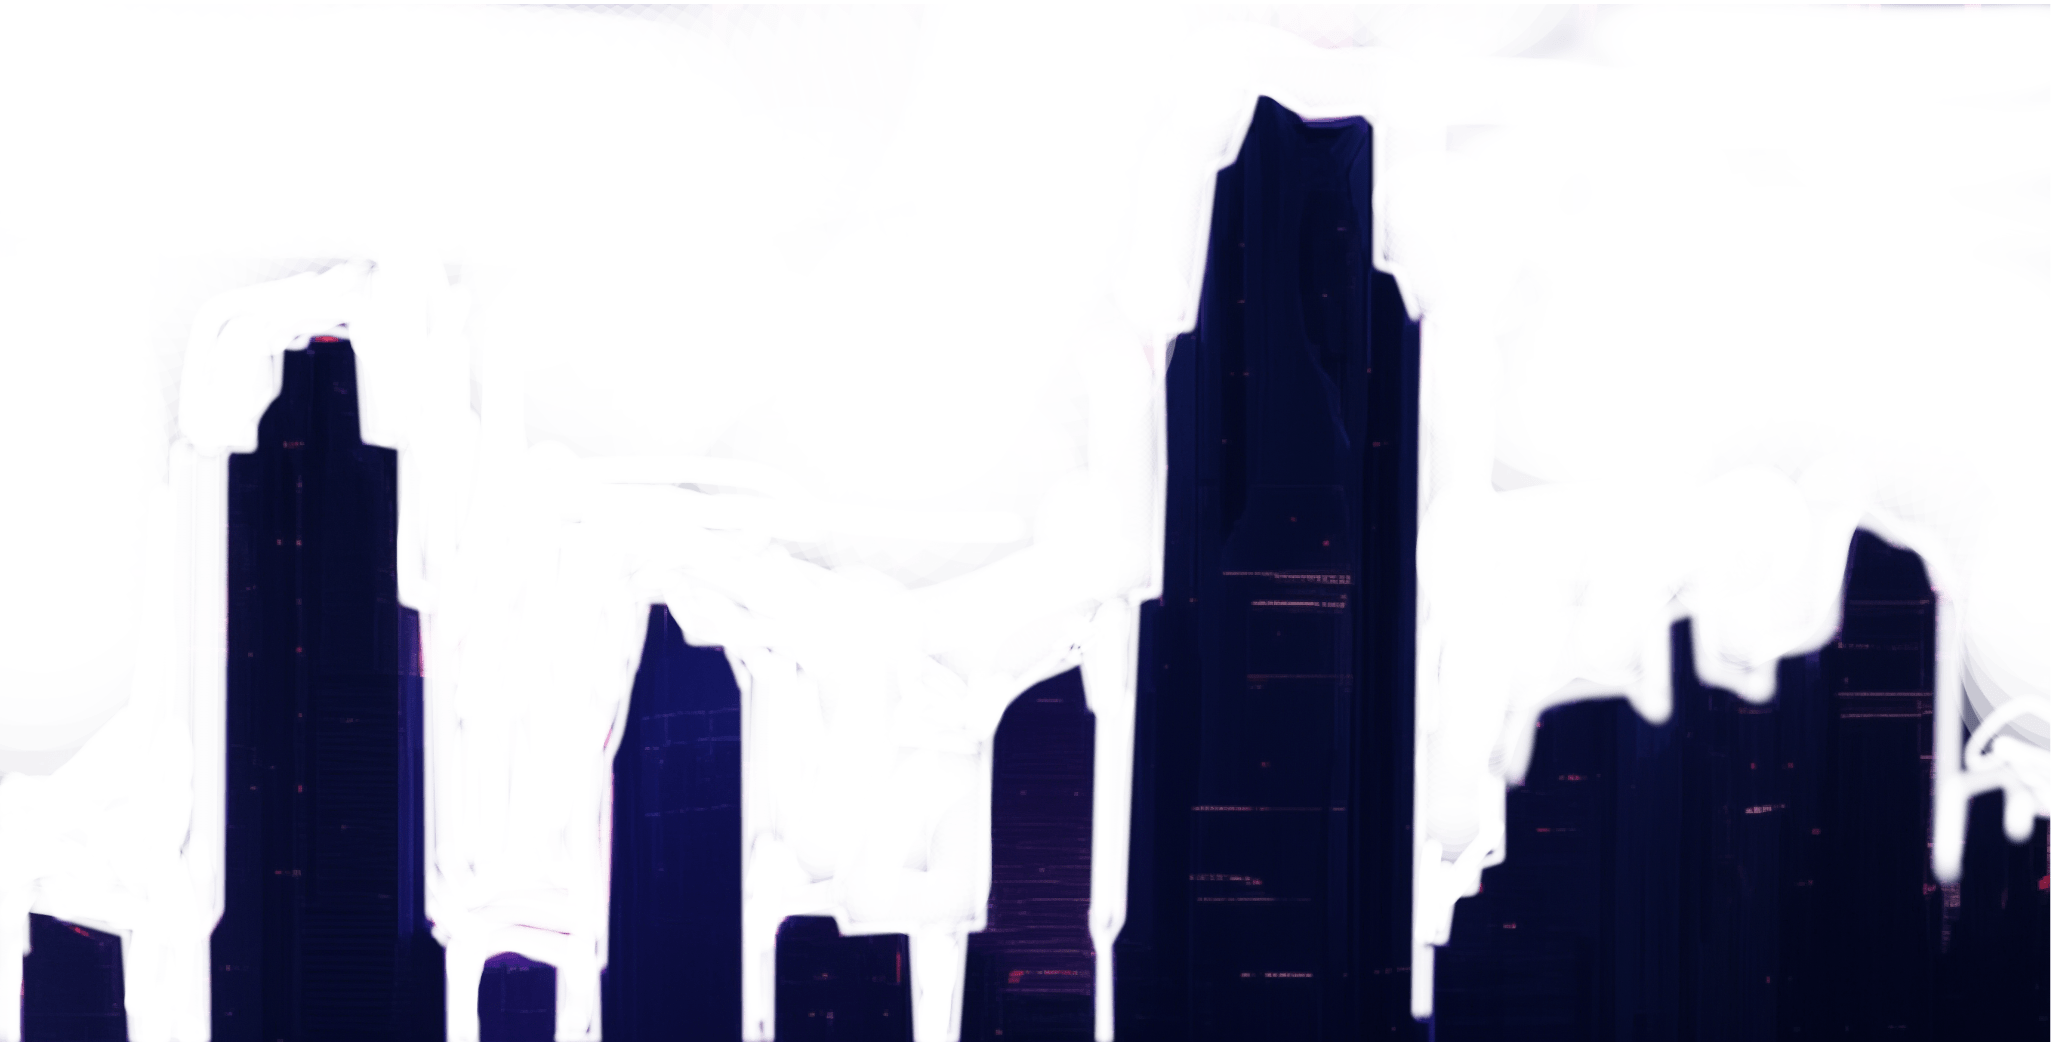
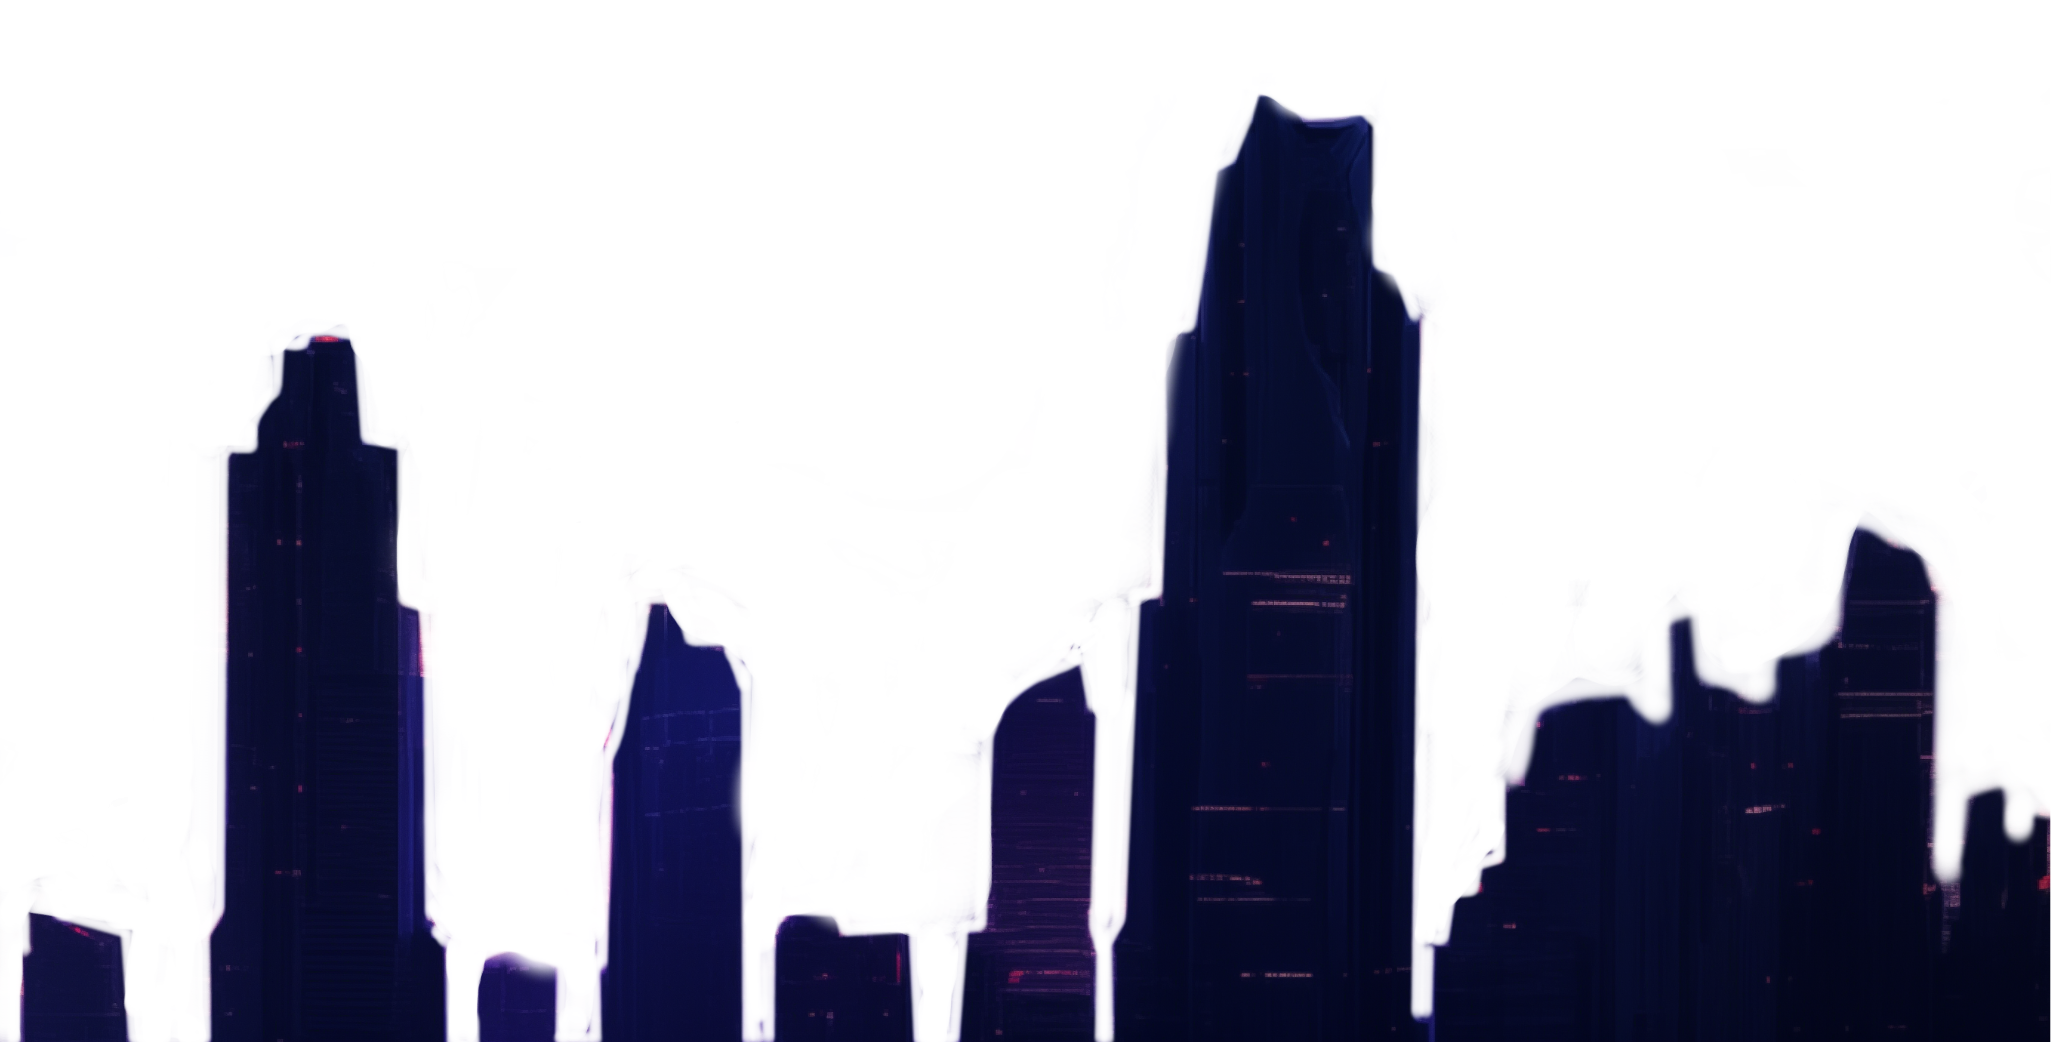
Make website responsive

diff --git a/style.css b/style.css
@@ -152,7 +152,7 @@ main {
 .moon {
   position: absolute;
   width: 60%;
-  top: -40%;
+  top: -30%;
   left: 0;
   z-index: 2;
 }
@@ -184,7 +184,7 @@ main {
 .building_1 {
   position: absolute;
   width: 40%;
-  top: 40%;
+  bottom: -10%;
   left: 60%;
   z-index: 7;
 }
@@ -192,22 +192,27 @@ main {
 .building_2 {
   position: absolute;
   width: 50%;
-  top: 60%;
+  bottom: -15%;
   left: 35%;
   z-index: 8;
 }
 
 .text {
   position: absolute;
-  top: 50%;
+  top: 40%;
+  width: 100%;
+
   /* transform: translate(-50%, -50%); */
-  left: 30%;
+  left: 0;
+  right: 0;
   text-align: center;
   white-space: nowrap;
   text-transform: uppercase;
   color: white;
   z-index: 9;
   pointer-events: all;
+  margin-left: auto;
+  margin-right: auto;
 }
 
 .text h1 {
@@ -224,8 +229,8 @@ main {
 
 .fog_1 {
   position: absolute;
-  width: 110%;
-  top: 90%;
+  width: 10%;
+  bottom: 0%;
   left: 80%;
   z-index: 10;
 }
@@ -234,15 +239,15 @@ main {
   position: absolute;
   width: 30%;
   top: 20%;
-  left: 60%;
+  left: 50%;
   z-index: 11;
 }
 
 .building_3 {
   position: absolute;
-  width: 80%;
-  top: 25%;
-  left: -40%;
+  width: 20%;
+  bottom: -1%;
+  left: -5%;
   z-index: 12;
 }
 
@@ -256,9 +261,9 @@ main {
 
 .building_4 {
   position: absolute;
-  width: 50%;
-  top: 80%;
-  left: 78%;
+  width: 30%;
+  bottom: -10%;
+  left: 60%;
   z-index: 13;
 }
 
@@ -293,4 +298,169 @@ main {
   bottom: -3%;
   right: -10%;
   z-index: 19;
+}
+
+@media screen and (min-width: 1024px) and (max-width: 1440px) {
+  .moon {
+    width: 80%;
+    top: -20%;
+  }
+
+  .planet {
+    top: 5%;
+    left: 70%;
+  }
+
+  .cloud_1 {
+    width: 80%;
+    top: 10%;
+  }
+
+  .cloud_2 {
+    width: 90%;
+  }
+
+  .building_1 {
+    width: 45%;
+  }
+
+  .building_2 {
+    width: 70%;
+  }
+
+  .fog_1 {
+    width: 100%;
+    bottom: -70%;
+    left: 0;
+  }
+
+  .spaceship {
+    width: 60%;
+    top: 10%;
+  }
+
+  .building_3 {
+    width: 40%;
+    left: -15%;
+  }
+
+  .fog_2 {
+    top: 70%;
+    left: -20%;
+  }
+
+  .building_4 {
+    width: 45%;
+    bottom: -17%;
+    left: 50%;
+  }
+
+  .building_5 {
+    width: 50%;
+    bottom: -15%;
+    left: 10%;
+  }
+
+  .fog_3 {
+    opacity: 1;
+    width: 100%;
+    bottom: -50%;
+    left: 40%;
+  }
+  .rocks_1 {
+    width: 70%;
+  }
+
+  .rocks_2 {
+    width: 50%;
+  }
+}
+
+@media screen and (max-width: 1023px) {
+  .text h1 {
+    font-size: 8vw;
+  }
+
+  .text h2 {
+    font-weight: 200;
+    font-size: 4.5vw;
+    line-height: 0.98;
+  }
+
+  .moon {
+    width: 90%;
+    top: -10%;
+    left: -10%;
+  }
+
+  .planet {
+    top: 5%;
+    left: 70%;
+  }
+
+  .cloud_1 {
+    width: 120%;
+    top: 15%;
+    left: -50%;
+  }
+
+  .cloud_2 {
+    width: 100%;
+    top: 10%;
+  }
+
+  .building_1 {
+    width: 55%;
+  }
+
+  .building_2 {
+    width: 90%;
+  }
+
+  .fog_1 {
+    width: 100%;
+    bottom: -70%;
+    left: 0;
+  }
+
+  .spaceship {
+    width: 70%;
+    top: 10%;
+  }
+
+  .building_3 {
+    width: 50%;
+    left: -15%;
+  }
+
+  .fog_2 {
+    top: 80%;
+    left: -20%;
+  }
+
+  .building_4 {
+    width: 65%;
+    bottom: -17%;
+    left: 50%;
+  }
+
+  .building_5 {
+    width: 60%;
+    bottom: -10%;
+    left: 10%;
+  }
+
+  .fog_3 {
+    opacity: 1;
+    width: 100%;
+    bottom: -50%;
+    left: 40%;
+  }
+  .rocks_1 {
+    width: 80%;
+  }
+
+  .rocks_2 {
+    width: 60%;
+  }
 }

diff --git a/index.html b/index.html
@@ -55,19 +55,19 @@
 
             <img src="city dark/background.png" data-speedx="0.28" data-speedy="0.28" data-speedz="0"
                 class="parallax bg-img">
-            <img src="city dark/moon.png" data-speedx="0.27" data-speedy="0.27" data-speedz="0.05"
+            <img src="city dark/moon.png" data-speedx="0.235" data-speedy="0.21" data-speedz="0.05"
                 class="parallax moon">
 
-            <img src="city dark/planet.png" data-speedx="0.261" data-speedy="0.264" data-speedz="0.05"
+            <img src="city dark/planet.png" data-speedx="0.21" data-speedy="0.23" data-speedz="0.05"
                 class="parallax planet">
-            <img src="city dark/cloud 1.png" data-speedx="0.252" data-speedy="0.251" data-speedz="0.05"
+            <img src="city dark/cloud 1.png" data-speedx="0.186" data-speedy="0.181" data-speedz="0.05"
                 class="parallax cloud_1">
-            <img src="city dark/cloud 1.png" data-speedx="0.244" data-speedy="0.245" data-speedz="0.05"
+            <img src="city dark/cloud 1.png" data-speedx="0.194" data-speedy="0.195" data-speedz="0.05"
                 class="parallax cloud_2">
 
             <img src="city dark/building 1.png" data-speedx="0.21" data-speedy="0.216" data-speedz="0.2"
                 class="parallax building_1">
-            <img src="city dark/building 2.png" data-speedx="0.222" data-speedy="0.225" data-speedz="0.2"
+            <img src="city dark/building 2.png" data-speedx="0.262" data-speedy="0.265" data-speedz="0.2"
                 class="parallax building_2">
 
 
@@ -86,15 +86,15 @@
                 class="parallax building_3">
             <img src="city dark/fog.png" data-speedx="0.093" data-speedy="0.09" data-speedz="0.2"
                 class="parallax fog_2">
-            <img src="city dark/building 4.png" data-speedx="0.084" data-speedy="0.082" data-speedz="0.4"
-                class="parallax building_4">
+            <img src="city dark/building 4.png" data-speedx="0.03" data-speedy="0.03" data-speedz="0.4"
+                class=" building_4">
             <img src="city dark/building 5.png" data-speedx="0.072" data-speedy="0.074" data-speedz="0.4"
                 class="parallax building_5">
             <img src="city dark/fog.png" data-speedx="0.29" data-speedy="0.18" data-speedz="0.3" class="parallax fog_3">
 
             <img src="city dark/rocks 1.png" data-speedx="0.01" data-speedy="0.02" data-speedz="0.5"
                 class="parallax rocks_1">
-            <img src="city dark/rocks 2.png" data-speedx="0.03" data-speedy="0.03" data-speedz="0.5"
+            <img src="city dark/rocks 2.png" data-speedx="0.03" data-speedy="0.03" data-speedz="0.4"
                 class="parallax rocks_2">
 
 
